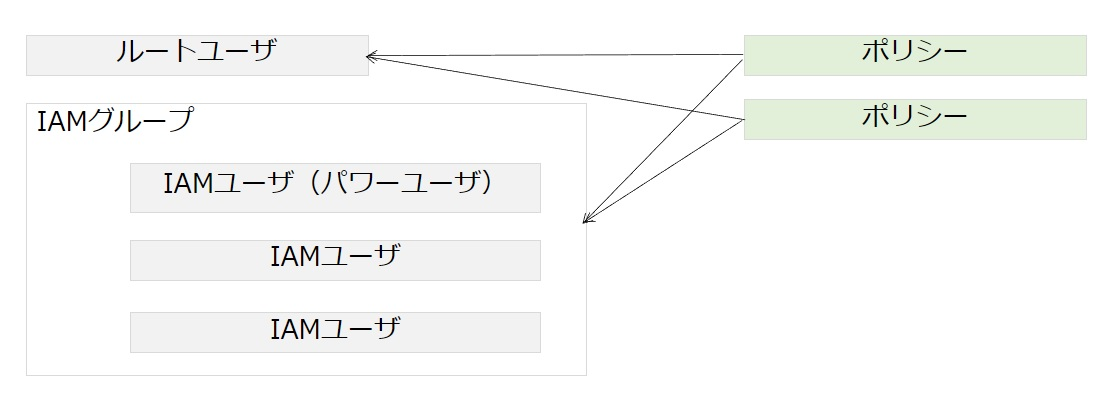
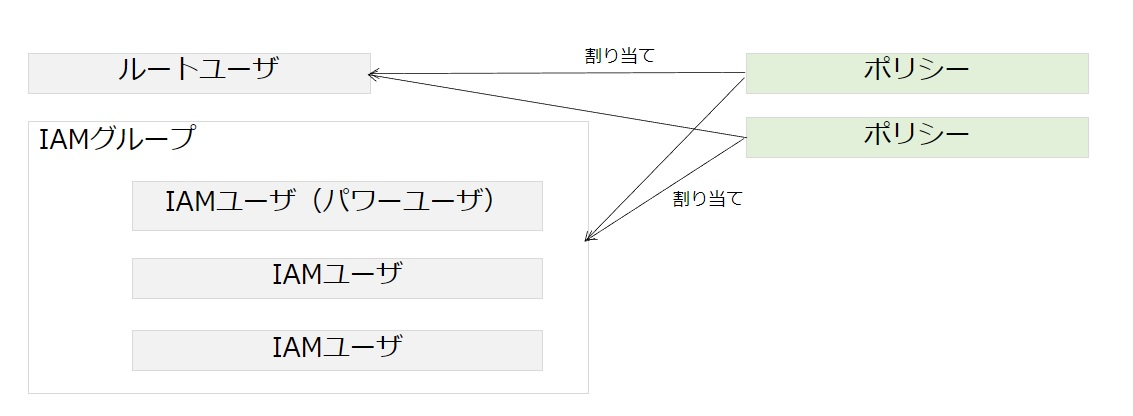
modified:   content/post/IAM-02.md 	modified:   docs/img/iam/iam-02.jpg 	new file:   docs/img/iam/iam-03.jpg 	modified:   docs/post/iam-02/index.html 	modified:   static/img/iam/iam-02.jpg 	new file:   static/img/iam/iam-03.jpg

diff --git a/docs/post/iam-02/index.html b/docs/post/iam-02/index.html
@@ -49,7 +49,7 @@
 <meta itemprop="name" content="IAM入門 認可">
 <meta itemprop="description" content=""><meta itemprop="datePublished" content="2021-11-26T10:50:47+09:00" />
 <meta itemprop="dateModified" content="2021-11-26T10:50:47+09:00" />
-<meta itemprop="wordCount" content="440">
+<meta itemprop="wordCount" content="639">
 <meta itemprop="keywords" content="AWS IAM," /><meta name="twitter:card" content="summary"/>
 <meta name="twitter:title" content="IAM入門 認可"/>
 <meta name="twitter:description" content=""/>
@@ -154,6 +154,7 @@
         <li><a href="#1はじめに">1.はじめに</a></li>
         <li><a href="#2iamとは">2.IAMとは</a></li>
         <li><a href="#3iamでの認可とは">3.IAMでの認可とは</a></li>
+        <li><a href="#4ポリシーの構成">4.ポリシーの構成</a></li>
       </ul>
     </li>
   </ul>
@@ -176,10 +177,16 @@
 </ul>
 <p>今回は「何」ができるか、つまり認可について基本的な事項をまとめていきます。</p>
 <h2 id="3iamでの認可とは">3.IAMでの認可とは</h2>
-<p>IAMで認可を設定する機能を「ポリシー」と呼びます。
+<p>IAMで認可を設定する機能を「IAM ポリシー」と呼びます。
 まずは認証の機能であるIAMユーザとIAMグループとのかかわりを見てみましょう。</p>
 <p>今回も基本的な部分でまとめています。</p>
 <p><img src="https://monochlog.github.io/monochlog-blog/img/iam/iam-02.jpg" alt="認証と認可" title="認証と認可"></p>
+<p>IAM ポリシーはIAM ユーザやIAMグループに対して実施可能なアクションなどを定義し、権限を付与、割り当てて利用します。</p>
+<p>グループに割り当てを行うことで、まとめて権限を管理することができるため、基本的にはグループへの割り当てを行うほうが良いといえます。</p>
+<h2 id="4ポリシーの構成">4.ポリシーの構成</h2>
+<p>AWSポリシーはほとんどJSON形式で定義されています。構成イメージを公式ドキュメントから引用します。</p>
+<p><img src="https://monochlog.github.io/monochlog-blog/img/iam/iam-03.jpg" alt="ポリシー構成"></p>
+<p><a href="https://docs.aws.amazon.com/ja_jp/IAM/latest/UserGuide/access_policies.html" target="_blank">JSON ポリシードキュメント構造</a></p>
     </div>
 
     

diff --git a/content/post/IAM-02.md b/content/post/IAM-02.md
@@ -57,10 +57,20 @@ sequenceDiagrams:
 今回は「何」ができるか、つまり認可について基本的な事項をまとめていきます。
 
 ## 3.IAMでの認可とは
-IAMで認可を設定する機能を「ポリシー」と呼びます。
+IAMで認可を設定する機能を「IAM ポリシー」と呼びます。
 まずは認証の機能であるIAMユーザとIAMグループとのかかわりを見てみましょう。
 
 今回も基本的な部分でまとめています。
 
 ![認証と認可](/img/iam/iam-02.jpg "認証と認可")
 
+IAM ポリシーはIAM ユーザやIAMグループに対して実施可能なアクションなどを定義し、権限を付与、割り当てて利用します。
+
+グループに割り当てを行うことで、まとめて権限を管理することができるため、基本的にはグループへの割り当てを行うほうが良いといえます。
+
+## 4.ポリシーの構成
+AWSポリシーはほとんどJSON形式で定義されています。構成イメージを公式ドキュメントから引用します。
+
+![ポリシー構成](/img/iam/iam-03.jpg)
+
+[JSON ポリシードキュメント構造](https://docs.aws.amazon.com/ja_jp/IAM/latest/UserGuide/access_policies.html)
